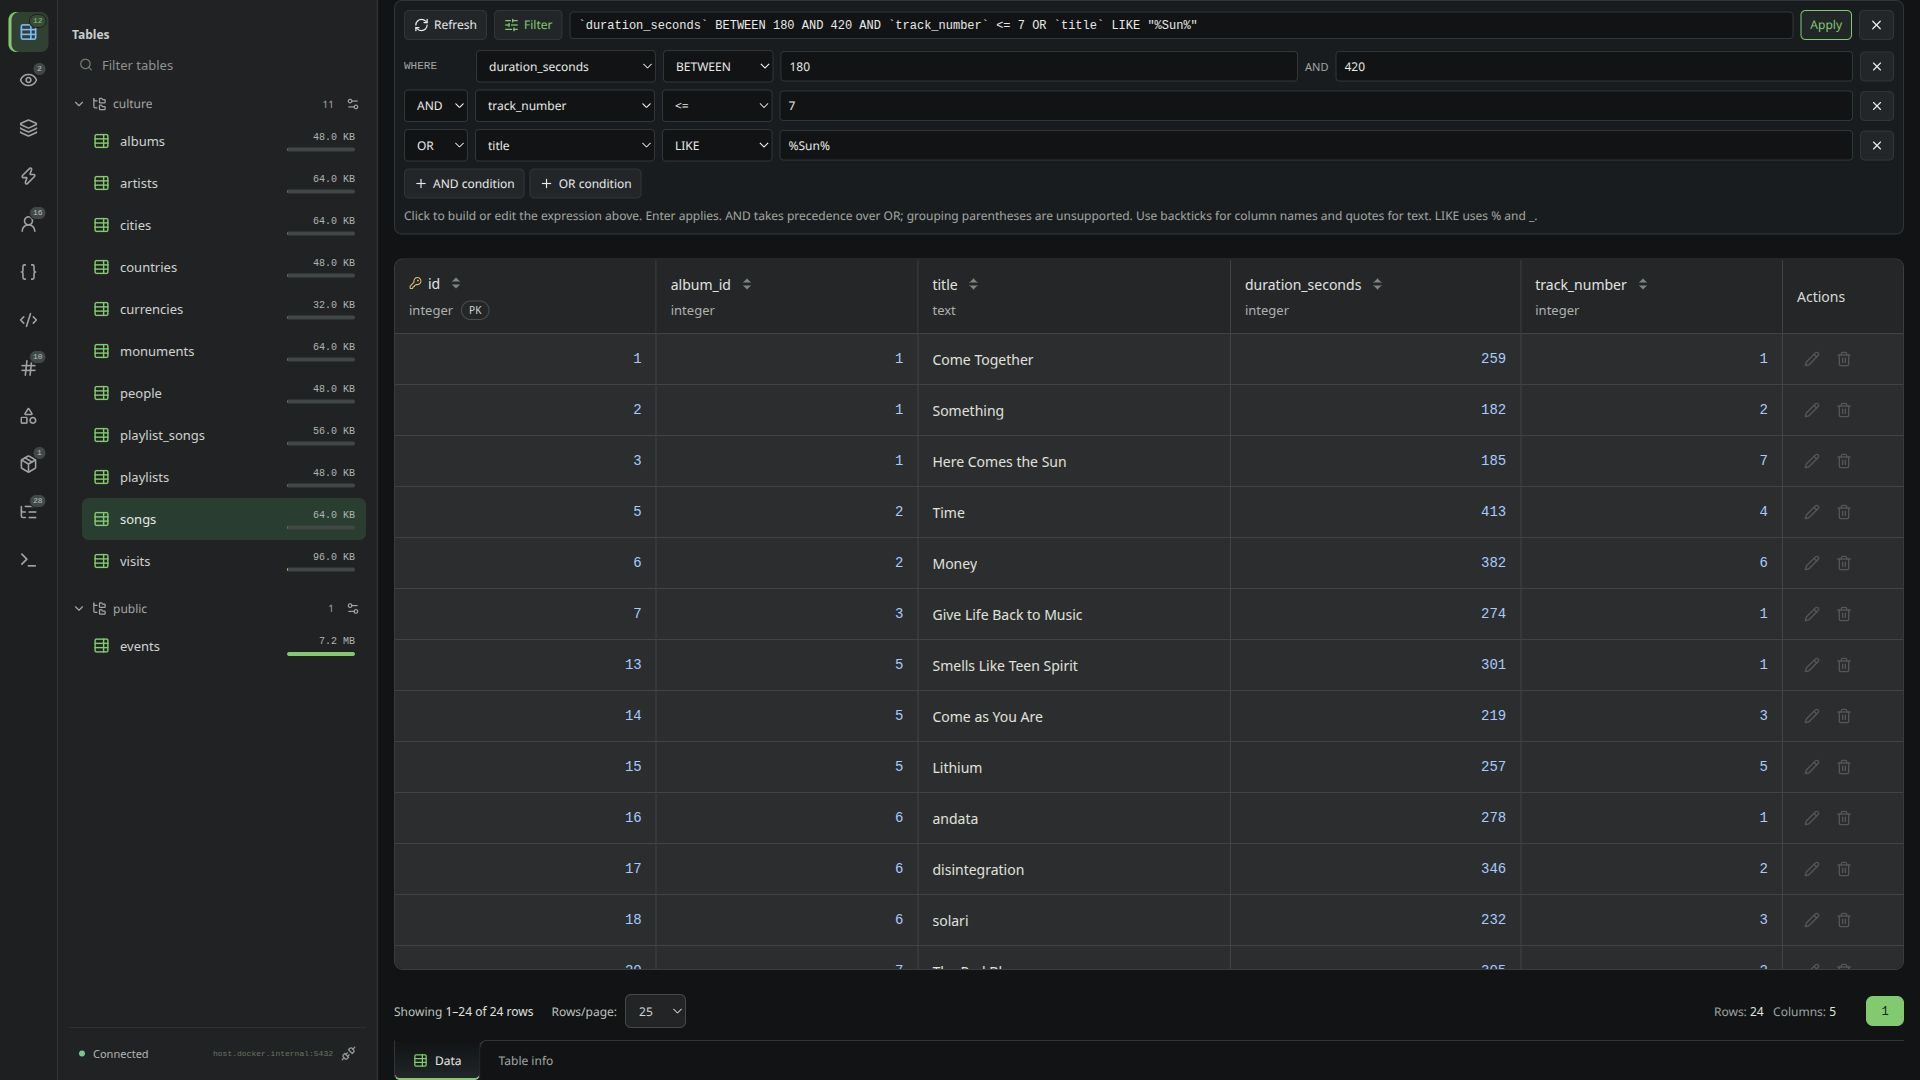
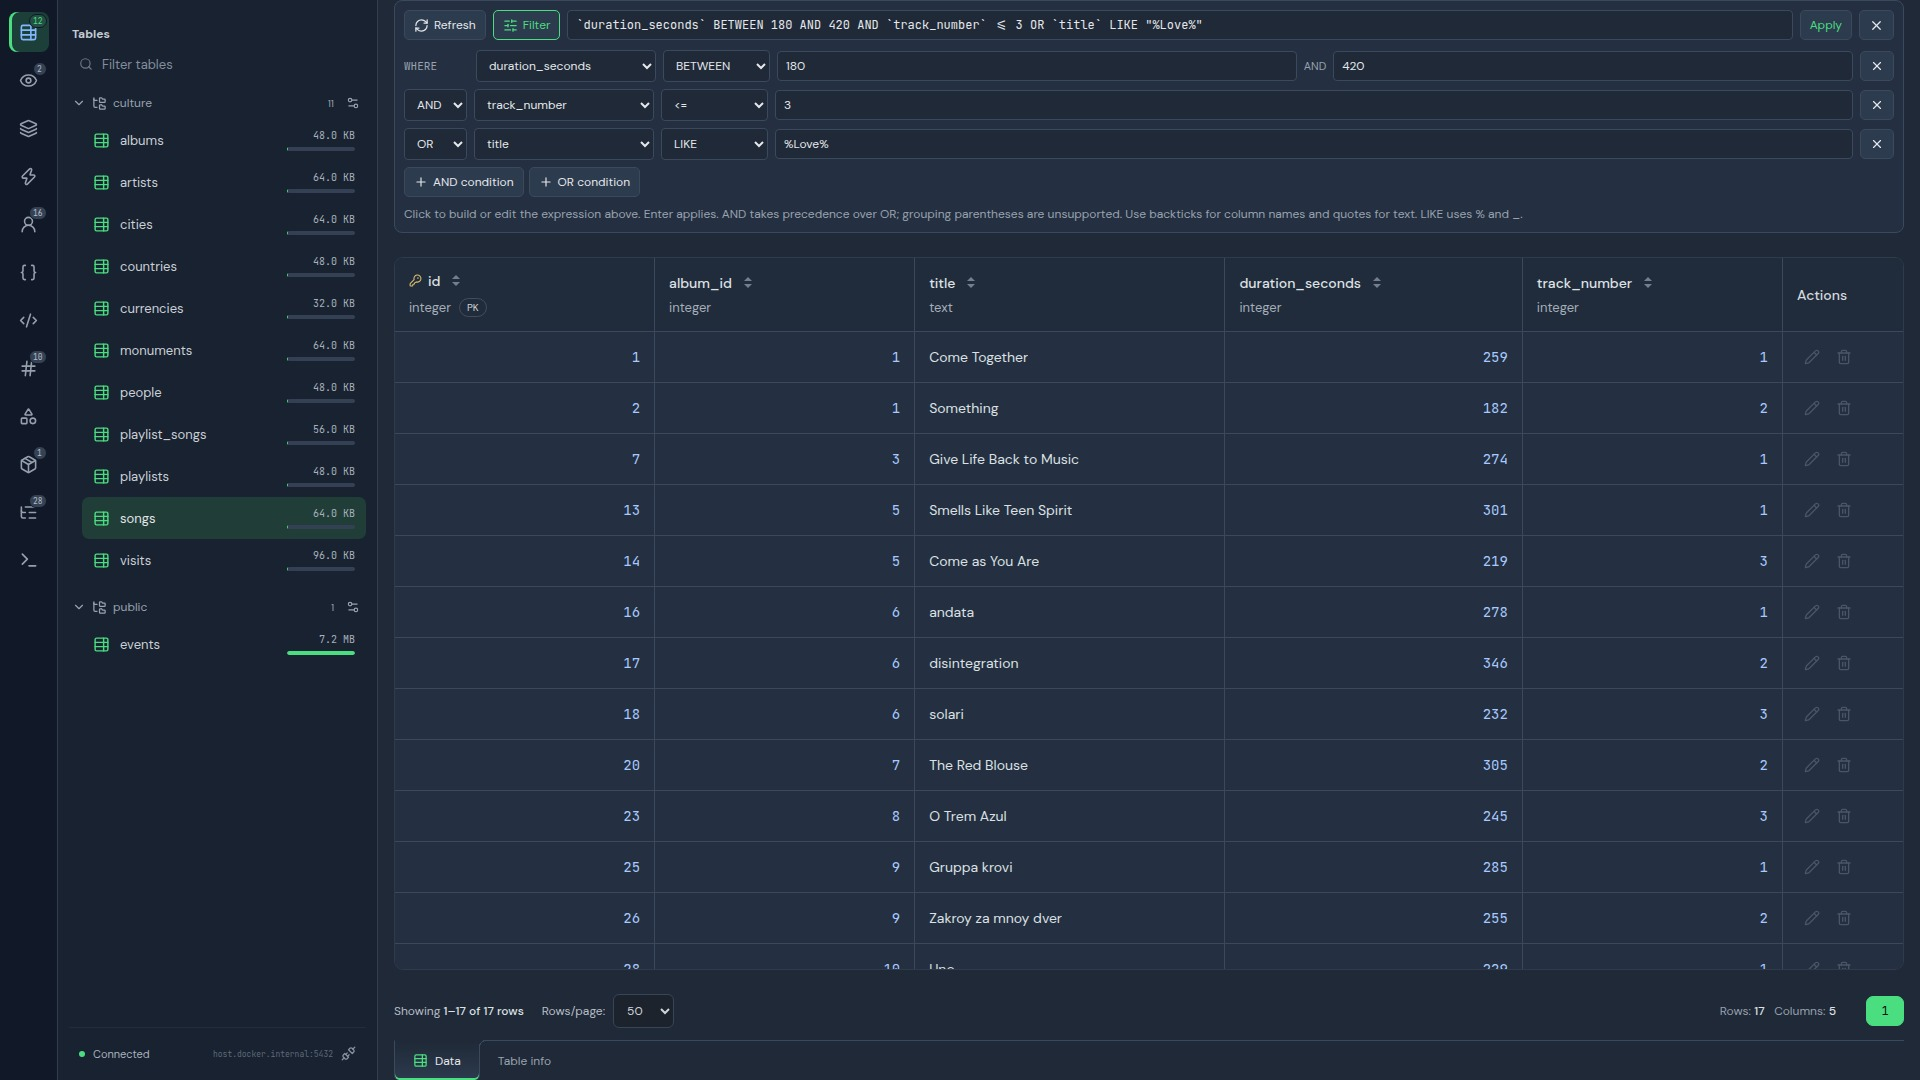
Refresh screenshots and document the updated theme

diff --git a/README.md b/README.md
@@ -1,6 +1,6 @@
 # Nichosi
 
-A database workspace in your browser. Explore tables and views, build precise filters, inspect schema details, and turn SQL into answers — in a dark, IDE-style interface.
+A database workspace in your browser. Explore tables and views, build precise filters, inspect schema details, and turn SQL into answers — in a dark, IDE-style interface with blue-gray panels and bright green accents.
 
 Nichosi connects to **MySQL, MariaDB, PostgreSQL, and SQLite**. It runs as a self-hosted web app in Docker, with a Go backend and a Svelte + TypeScript frontend. Connections default to read-only; editing requires an explicit writable profile and driver support.
 
@@ -19,17 +19,19 @@ Nichosi connects to **MySQL, MariaDB, PostgreSQL, and SQLite**. It runs as a sel
 
 ## A closer look
 
-These are actual application screenshots at 1920 × 1080, captured against a PostgreSQL demo database. The `culture` dataset connects countries, cities, people, music, playlists, landmarks, and travel diaries through 11 tables and two views. People and activity are fictional; cultural references and numeric values are illustrative. Demo data is not installed automatically when you start Nichosi.
+The interface uses **DM Sans** for labels and controls, and **JetBrains Mono** for SQL and code. Both fonts are bundled locally under the SIL Open Font License 1.1; no external font service is required.
+
+All six screenshots in this README show the updated blue-gray theme at **1920 × 1080**, captured against a PostgreSQL demo database. The `culture` dataset connects countries, cities, people, music, playlists, landmarks, and travel diaries through 11 tables and two views. People and activity are fictional; cultural references and numeric values are illustrative. Demo data is not installed automatically when you start Nichosi.
 
 ### Start with your connections
 
-The start screen brings your saved database profiles together, with their database engine, connection state, read-only status, cached size, and last successful connection time. Choose a profile to enter its workspace. Nichosi runs locally without a separate application login.
+The start screen brings your saved database profiles together, with their database engine, connection state, read-only status, cached size, and last successful connection time. Invalid profiles stay visible with actionable configuration errors. Choose a valid profile to enter its workspace. Nichosi runs locally without a separate application login.
 
 ![Nichosi start screen showing saved MySQL, PostgreSQL and SQLite connections](docs/screenshots/connections.jpg)
 
 ### Filters that express more than a search box
 
-Find tracks between three and seven minutes, restrict their album position, or include a title match. The builder and expression field show the same filter; this example returns 24 matching tracks.
+Find tracks between three and seven minutes, restrict their album position, or include a title match. The builder and expression field show the same filter; this example returns 17 matching tracks.
 
 ![Applied song filter combining BETWEEN, AND, OR and LIKE, with matching PostgreSQL rows](docs/screenshots/filters.jpg)
 
